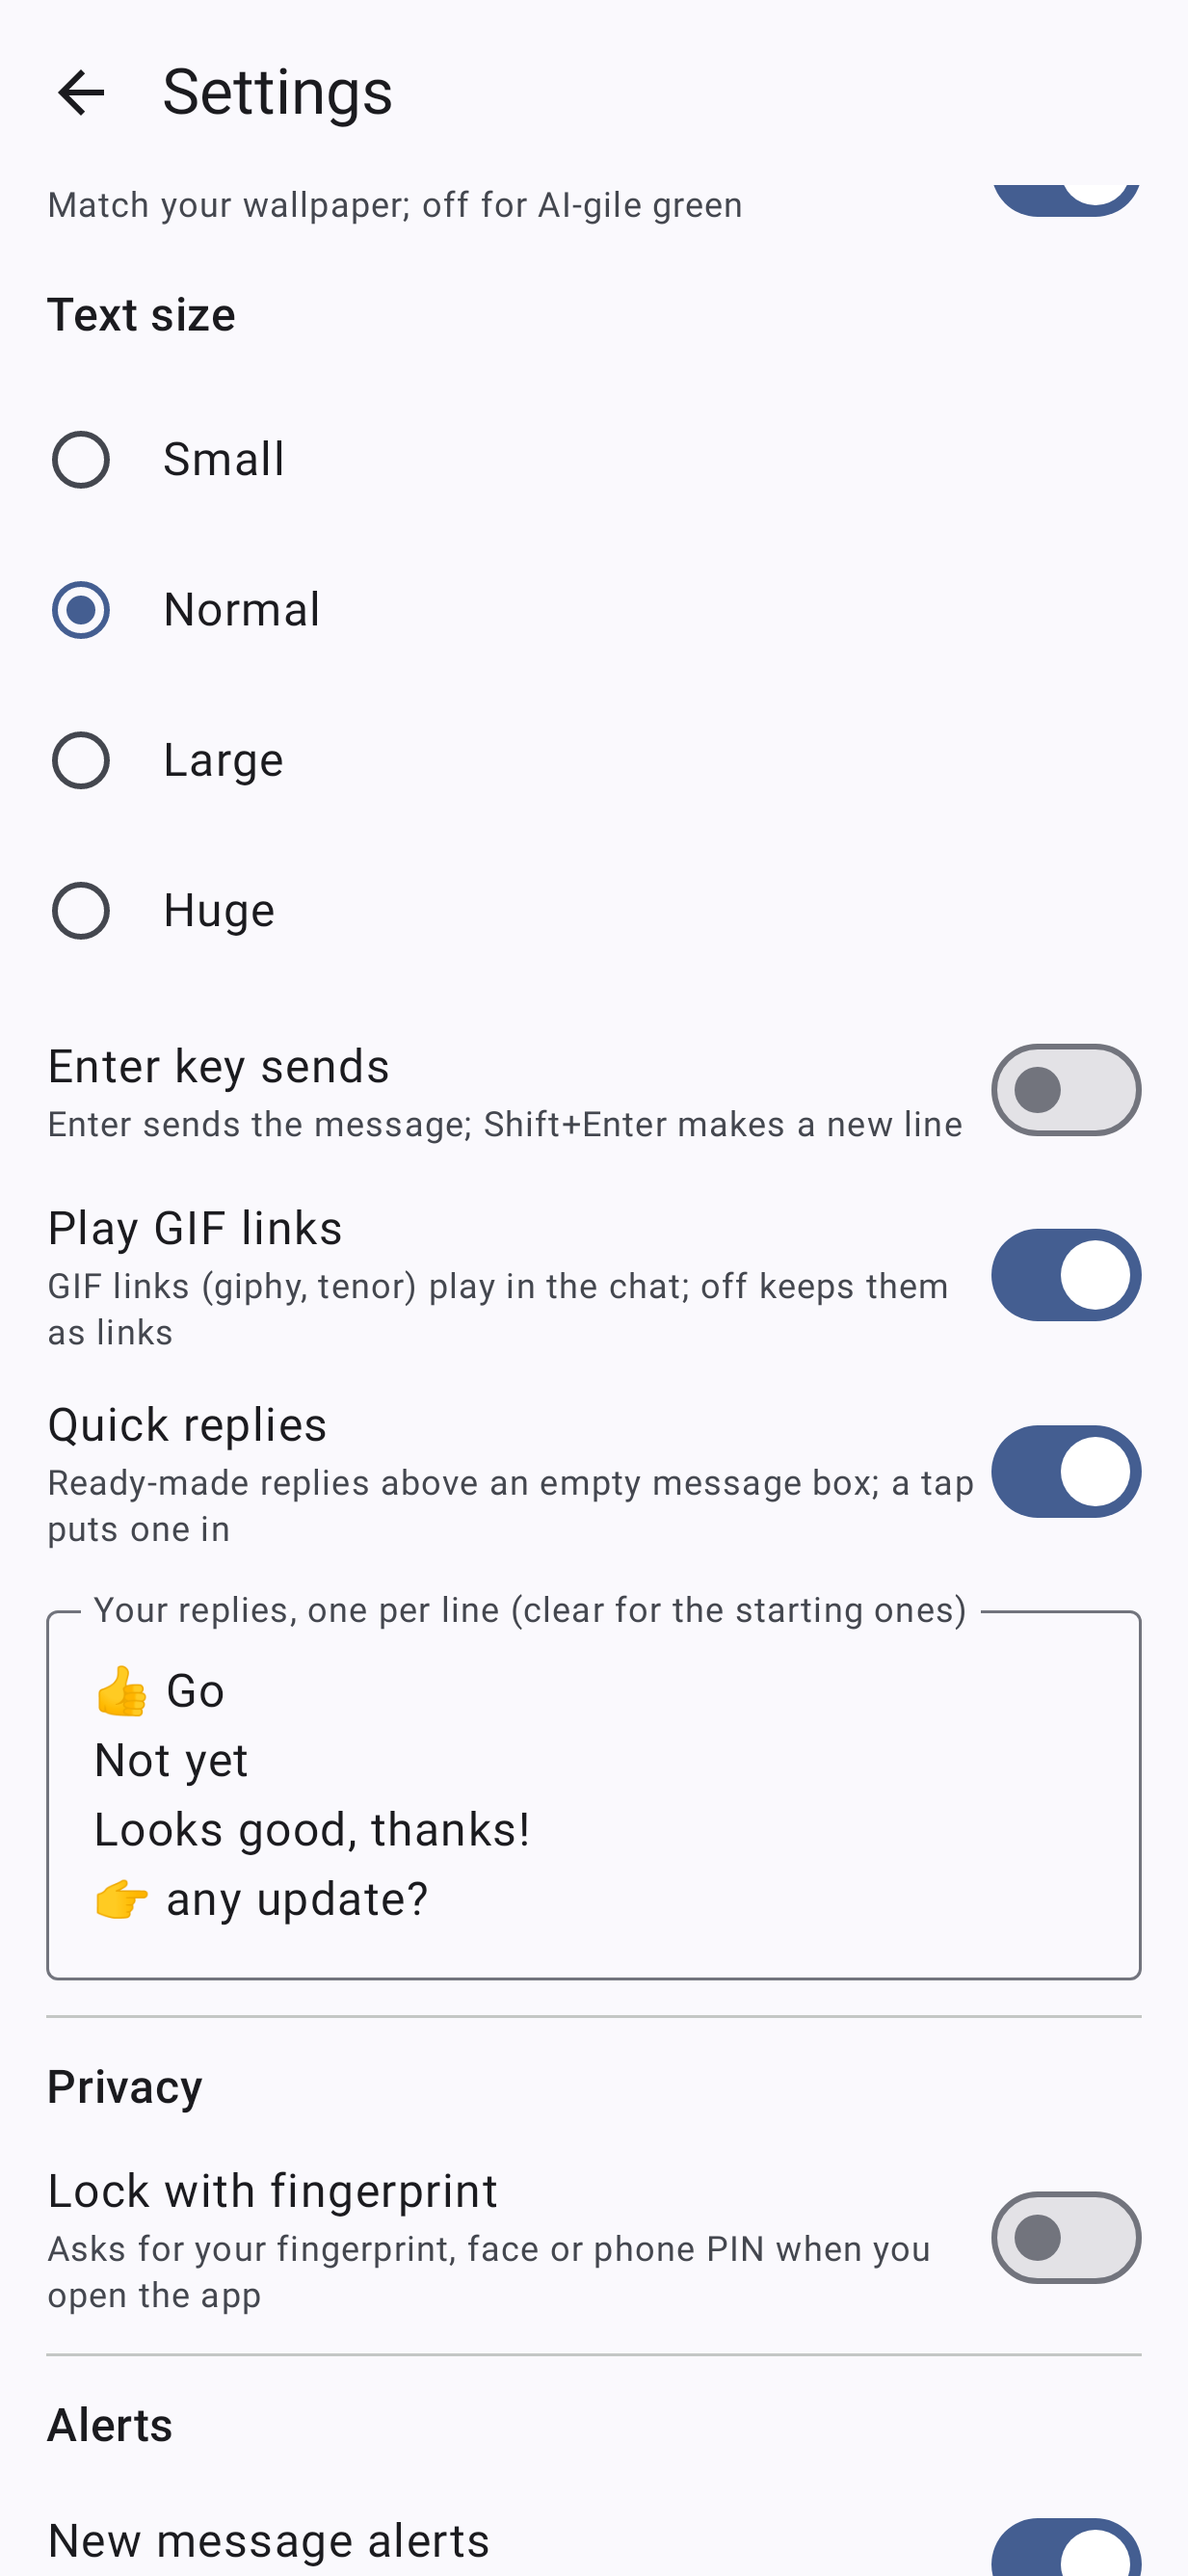
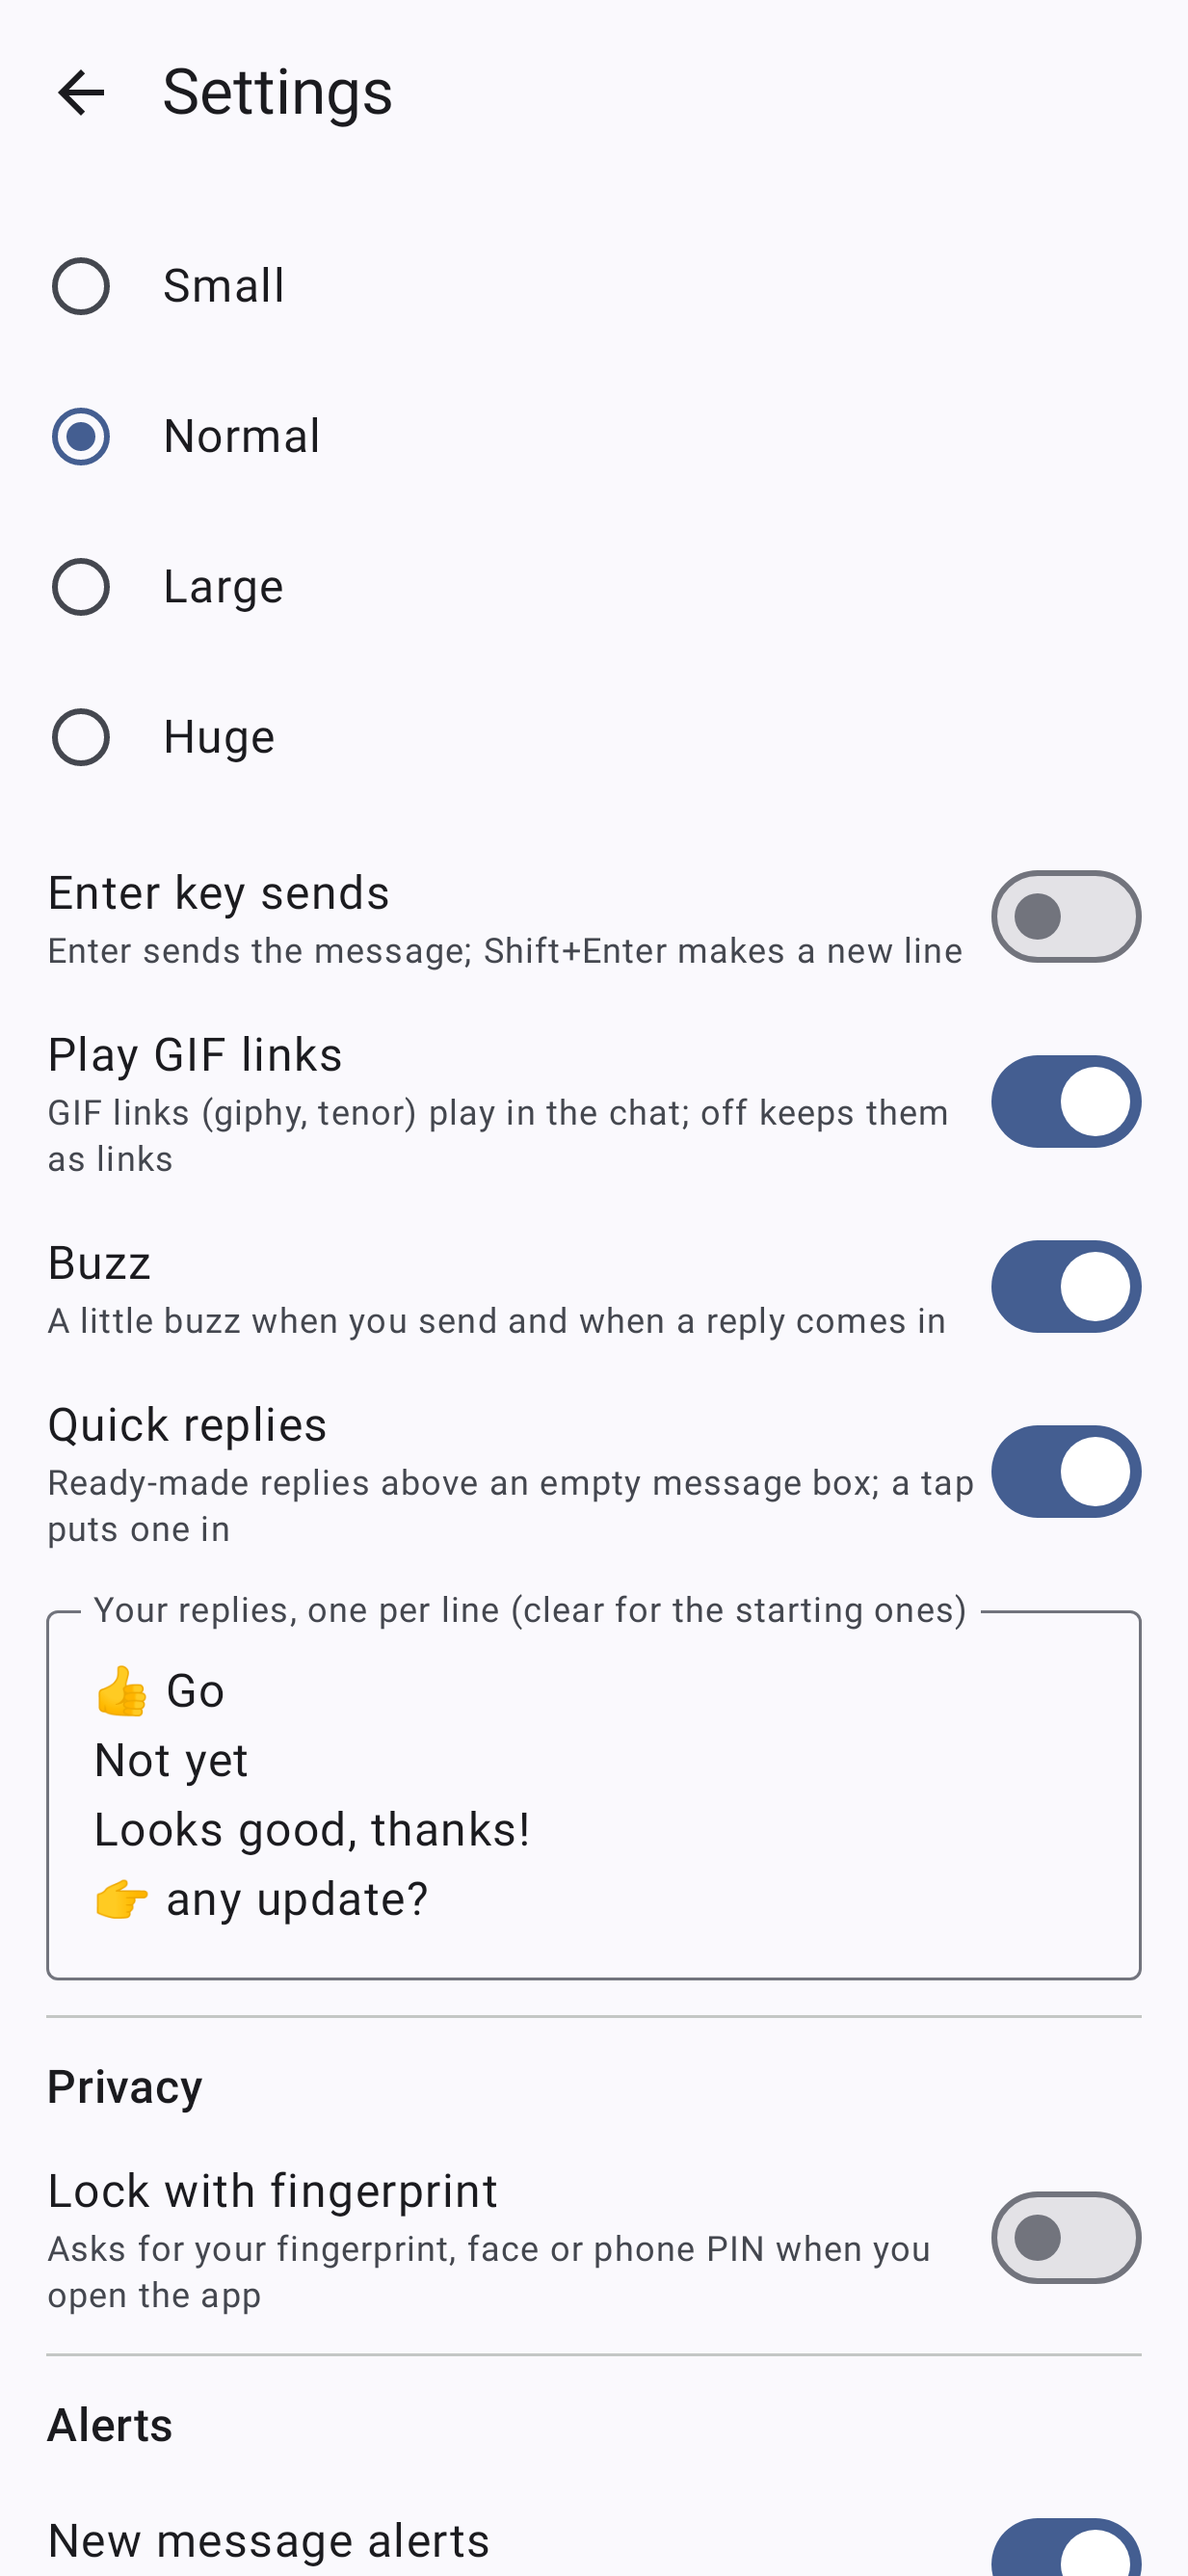
Settings: Buzz switch (AII-205)

diff --git a/app/src/main/java/com/smizflark/aigile/messenger/data/Store.kt b/app/src/main/java/com/smizflark/aigile/messenger/data/Store.kt
@@ -129,6 +129,10 @@ class Store(context: Context) {
     var gifs: Boolean
         get() = settings.getBoolean("gifs", true)
         set(v) = settings.edit().putBoolean("gifs", v).apply()
+    /** AII-205: the little buzz on send and on a new reply (AII-49); off keeps the phone still. */
+    var buzz: Boolean
+        get() = settings.getBoolean("buzz", true)
+        set(v) = settings.edit().putBoolean("buzz", v).apply()
 
     var enterSends: Boolean
         get() = settings.getBoolean("enterSends", false)
@@ -256,7 +260,7 @@ class Store(context: Context) {
     companion object {
         const val SETTINGS = "settings"
         /** The preferences that go into backup. Everything else stays in the "messenger" file. */
-        val BACKED_UP = listOf("alerts", "quietFrom", "quietTo", "quietOn", "look", "phoneColours", "textSize", "enterSends", "gifs", "quickReplies", "quickReplyText", "pinned", "muted")
+        val BACKED_UP = listOf("alerts", "quietFrom", "quietTo", "quietOn", "look", "phoneColours", "textSize", "enterSends", "gifs", "buzz", "quickReplies", "quickReplyText", "pinned", "muted")
 
         /** One-time move of the settings out of the pairing file, so the pairing file can stay out of backup. */
         fun moveSettings(from: SharedPreferences, to: SharedPreferences) {

diff --git a/app/src/main/java/com/smizflark/aigile/messenger/ui/Theme.kt b/app/src/main/java/com/smizflark/aigile/messenger/ui/Theme.kt
@@ -77,13 +77,15 @@ object Appearance {
     /** Enter sends (AII-126): read by the message box. */
     var enterSends by mutableStateOf(false)
     var gifs by mutableStateOf(true)
+    /** Buzz on send and on a new reply (AII-205). */
+    var buzz by mutableStateOf(true)
     /** Quick replies above an empty message box (AII-179); off until loaded, so screenshots stay as they were. */
     var quickReplies by mutableStateOf(false)
     /** Your own quick replies (AII-180); empty means the starting ones. */
     var replies by mutableStateOf(emptyList<String>())
 
     fun load(store: Store) {
-        if (look == null) { look = Look.of(store.look); phoneColours = store.phoneColours; textSize = TextSize.of(store.textSize); enterSends = store.enterSends; gifs = store.gifs; quickReplies = store.quickReplies; replies = com.smizflark.aigile.messenger.data.Replies.parse(store.quickReplyText) }
+        if (look == null) { look = Look.of(store.look); phoneColours = store.phoneColours; textSize = TextSize.of(store.textSize); enterSends = store.enterSends; gifs = store.gifs; buzz = store.buzz; quickReplies = store.quickReplies; replies = com.smizflark.aigile.messenger.data.Replies.parse(store.quickReplyText) }
     }
 }
 

diff --git a/app/src/main/java/com/smizflark/aigile/messenger/ui/ChatScreen.kt b/app/src/main/java/com/smizflark/aigile/messenger/ui/ChatScreen.kt
@@ -105,7 +105,7 @@ fun ChatScreen(repo: Repo, ref: ChatRef, onBack: () -> Unit, focus: String? = nu
     var at by rememberSaveable { mutableStateOf(0) }   // which match, 0 = the newest
     // AII-49: a little tick on send and when a reply lands. performHapticFeedback follows the phone's touch feedback setting.
     val view = LocalView.current
-    fun tick() = view.performHapticFeedback(if (Build.VERSION.SDK_INT >= 30) HapticFeedbackConstants.CONFIRM else HapticFeedbackConstants.VIRTUAL_KEY)
+    fun tick() = Appearance.buzz && view.performHapticFeedback(if (Build.VERSION.SDK_INT >= 30) HapticFeedbackConstants.CONFIRM else HapticFeedbackConstants.VIRTUAL_KEY)
     val owner = repo.store.owner.ifBlank { "You" }
     val res = LocalContext.current.resources
 

diff --git a/app/src/main/java/com/smizflark/aigile/messenger/ui/SettingsScreen.kt b/app/src/main/java/com/smizflark/aigile/messenger/ui/SettingsScreen.kt
@@ -111,6 +111,9 @@ fun SettingsScreen(repo: Repo, onBack: () -> Unit, onSignedOut: () -> Unit) {
             Toggle(stringResource(R.string.play_gifs), stringResource(R.string.play_gifs_sub), Appearance.gifs, Modifier.testTag("gifs")) {
                 Appearance.gifs = it; s.gifs = it
             }
+            Toggle(stringResource(R.string.buzz), stringResource(R.string.buzz_sub), Appearance.buzz, Modifier.testTag("buzz")) {
+                Appearance.buzz = it; s.buzz = it
+            }
             Toggle(stringResource(R.string.quick_replies), stringResource(R.string.quick_replies_sub), Appearance.quickReplies, Modifier.testTag("quickReplies")) {
                 Appearance.quickReplies = it; s.quickReplies = it
             }
